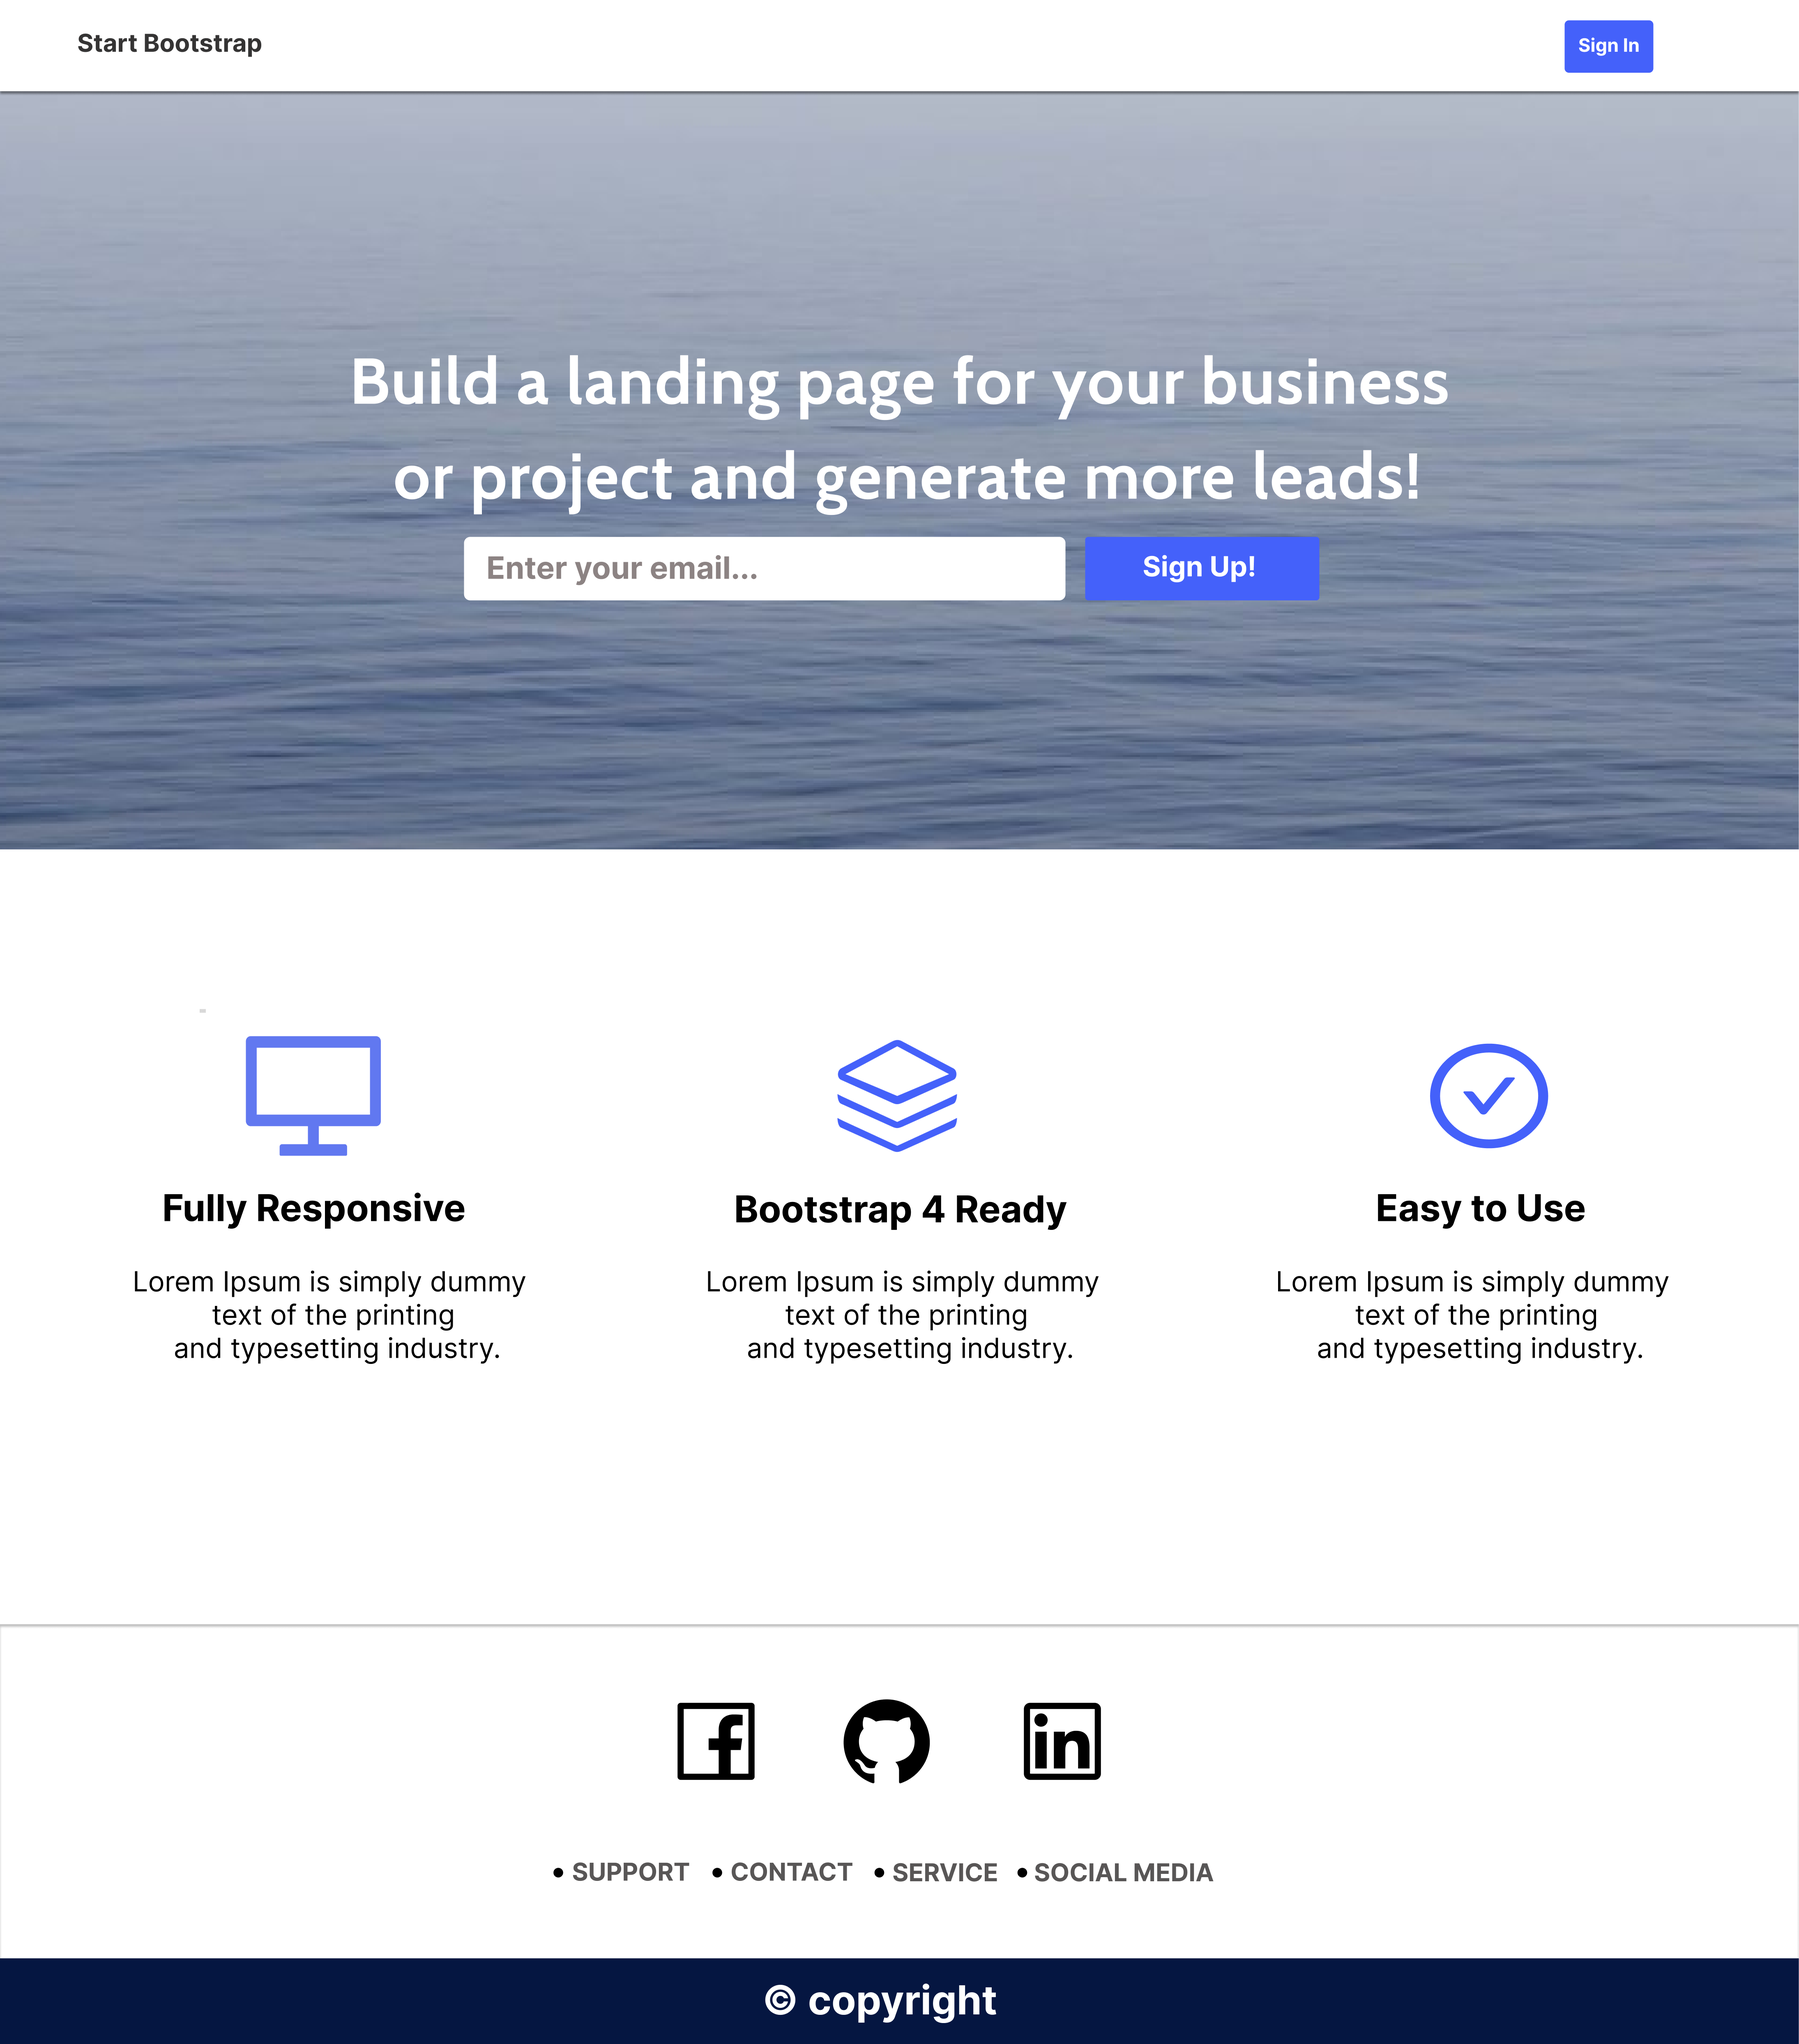
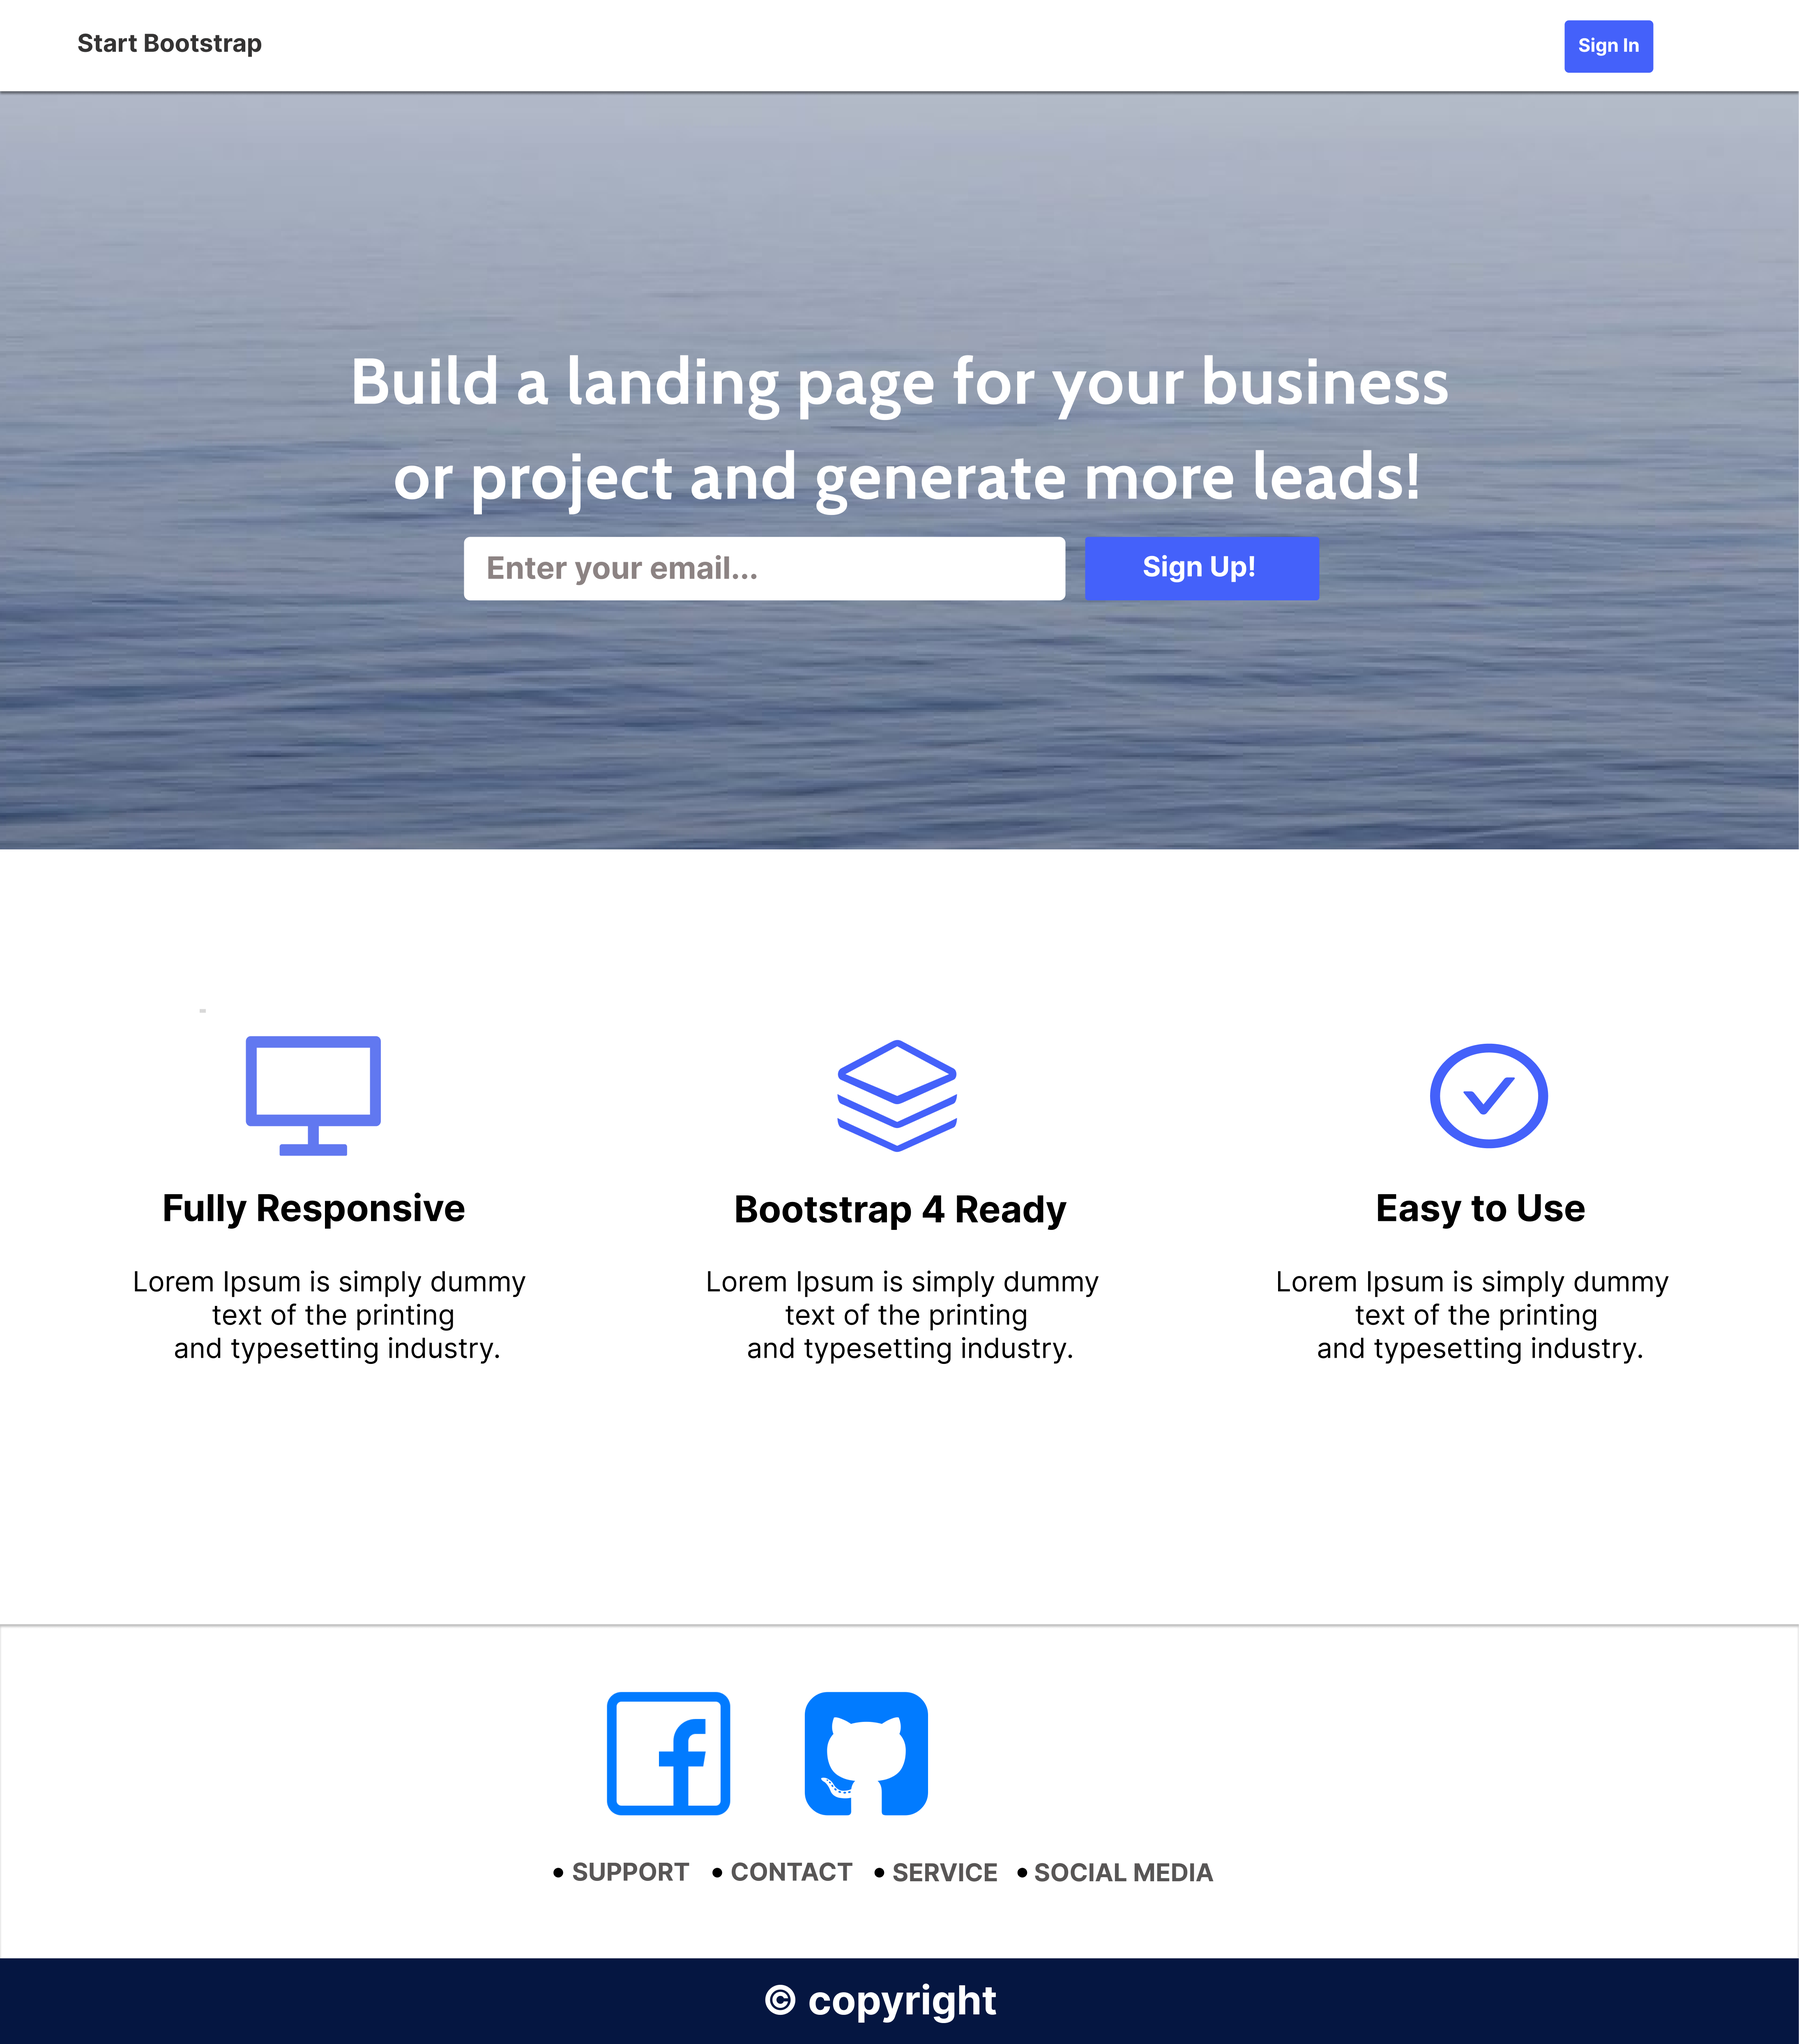
modifier le footer

Changed region(s): [[0.3416, 0.8102, 0.528, 0.9037], [0.559, 0.8102, 0.6211, 0.8725], [0.3106, 0.8414, 0.3416, 0.8725]]

diff --git a/style.css b/style.css
@@ -113,23 +113,31 @@
   text-align: center;
 }
 footer{
-  width: 100%;
+    width: 100%;
     height: 200px;
     background-color: #fefefe;
     border-top: 1px solid #051641 ;
 }
-footer .icon , .text{
+footer .icon  {
   display: flex;
   align-items: center;
   justify-content: center;
   padding-top: 30px;
   margin: 10px;
 }
+.text{
+  display: flex;
+  align-items: center;
+  justify-content: center;
+  padding-top: 10px;
+  margin: 10px 0;
+}
 .bar{
   background: #051641;
   padding: 10px;
-  color: white;
+  color: #e6e6e6;
   text-align: center;
+  font-size: 12px;
 }
 .icon img{
   width: 50px;
@@ -139,6 +147,7 @@ footer .icon , .text{
   position: relative;
   color: #585656;
   padding: 10px;
+
 }
 .btn:hover{
     background-color: white;
@@ -160,7 +169,6 @@ footer .icon , .text{
   bottom: 12px;
   left: 1px;
   font-size: 30px;
-  
 }
 .cards .card:hover{
   background-color: #E0F4FF;

diff --git a/index.html b/index.html
@@ -56,7 +56,7 @@
         <h3><span>.</span>SOCIAL MEDIA</h3>
       </div>
       <div class="bar">
-        <h3>&copy copyright</h3>
+        <h3>&copy All rights reserved by Manbar Mohamed</h3>
       </div>
     </footer>
 </html>
